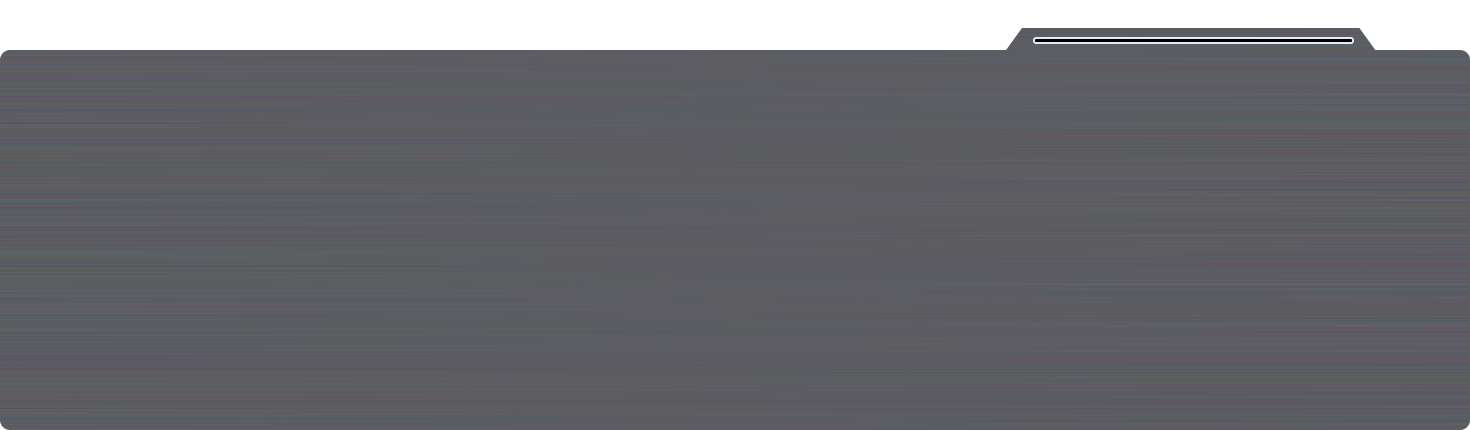
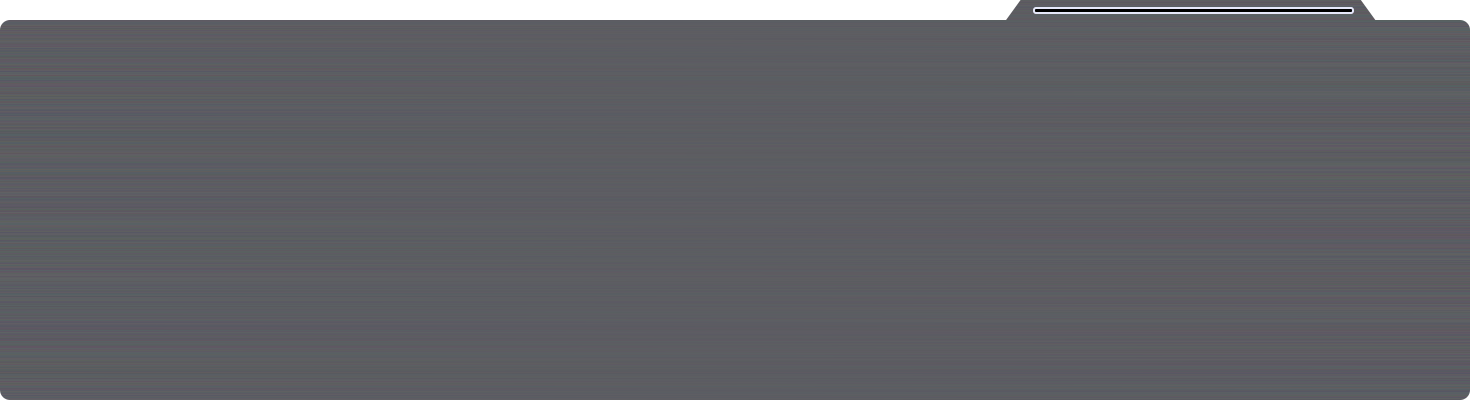
增加配置工具

Changed region(s): [[0.0, 0.0, 1.0, 0.12]]

diff --git a/readme.md b/readme.md
@@ -11,14 +11,15 @@
 ## img
 | 资源 | 作用 |
 | ---- | ---- |
-| img\bg.png | 键盘背景图片。建议1470*430相素，靠上50像素可自定义透明区域 |
-| img\tray.ico | 托盘图标 |
+| img\tray.png | 托盘图标 |
 | img\s1.png | 按键次数隐藏状态图标 |
 | img\s2.png | 按键次数显示状态图标 |
 
 ## kmcount_data.ini
 
-| 资源 | 作用 |
+| 键名 | 作用 |
 | ---- | ---- |
 | c1,c2 | 统计界面键盘按钮颜色。根据使用频率从c1到c2渐变 |
+| bgimg | 键盘背景图片，建议1470*400相素 |
+| bgcolor | 键盘背景颜色，不存在背景图片时生效 |
 | DESKTOP-XXXX | 设备信息 分别是 屏幕宽（毫米）,屏幕高（毫米）,屏幕尺寸（寸）。脚本首次启动会自动获取，但可能获取错误，可自行修改 |
